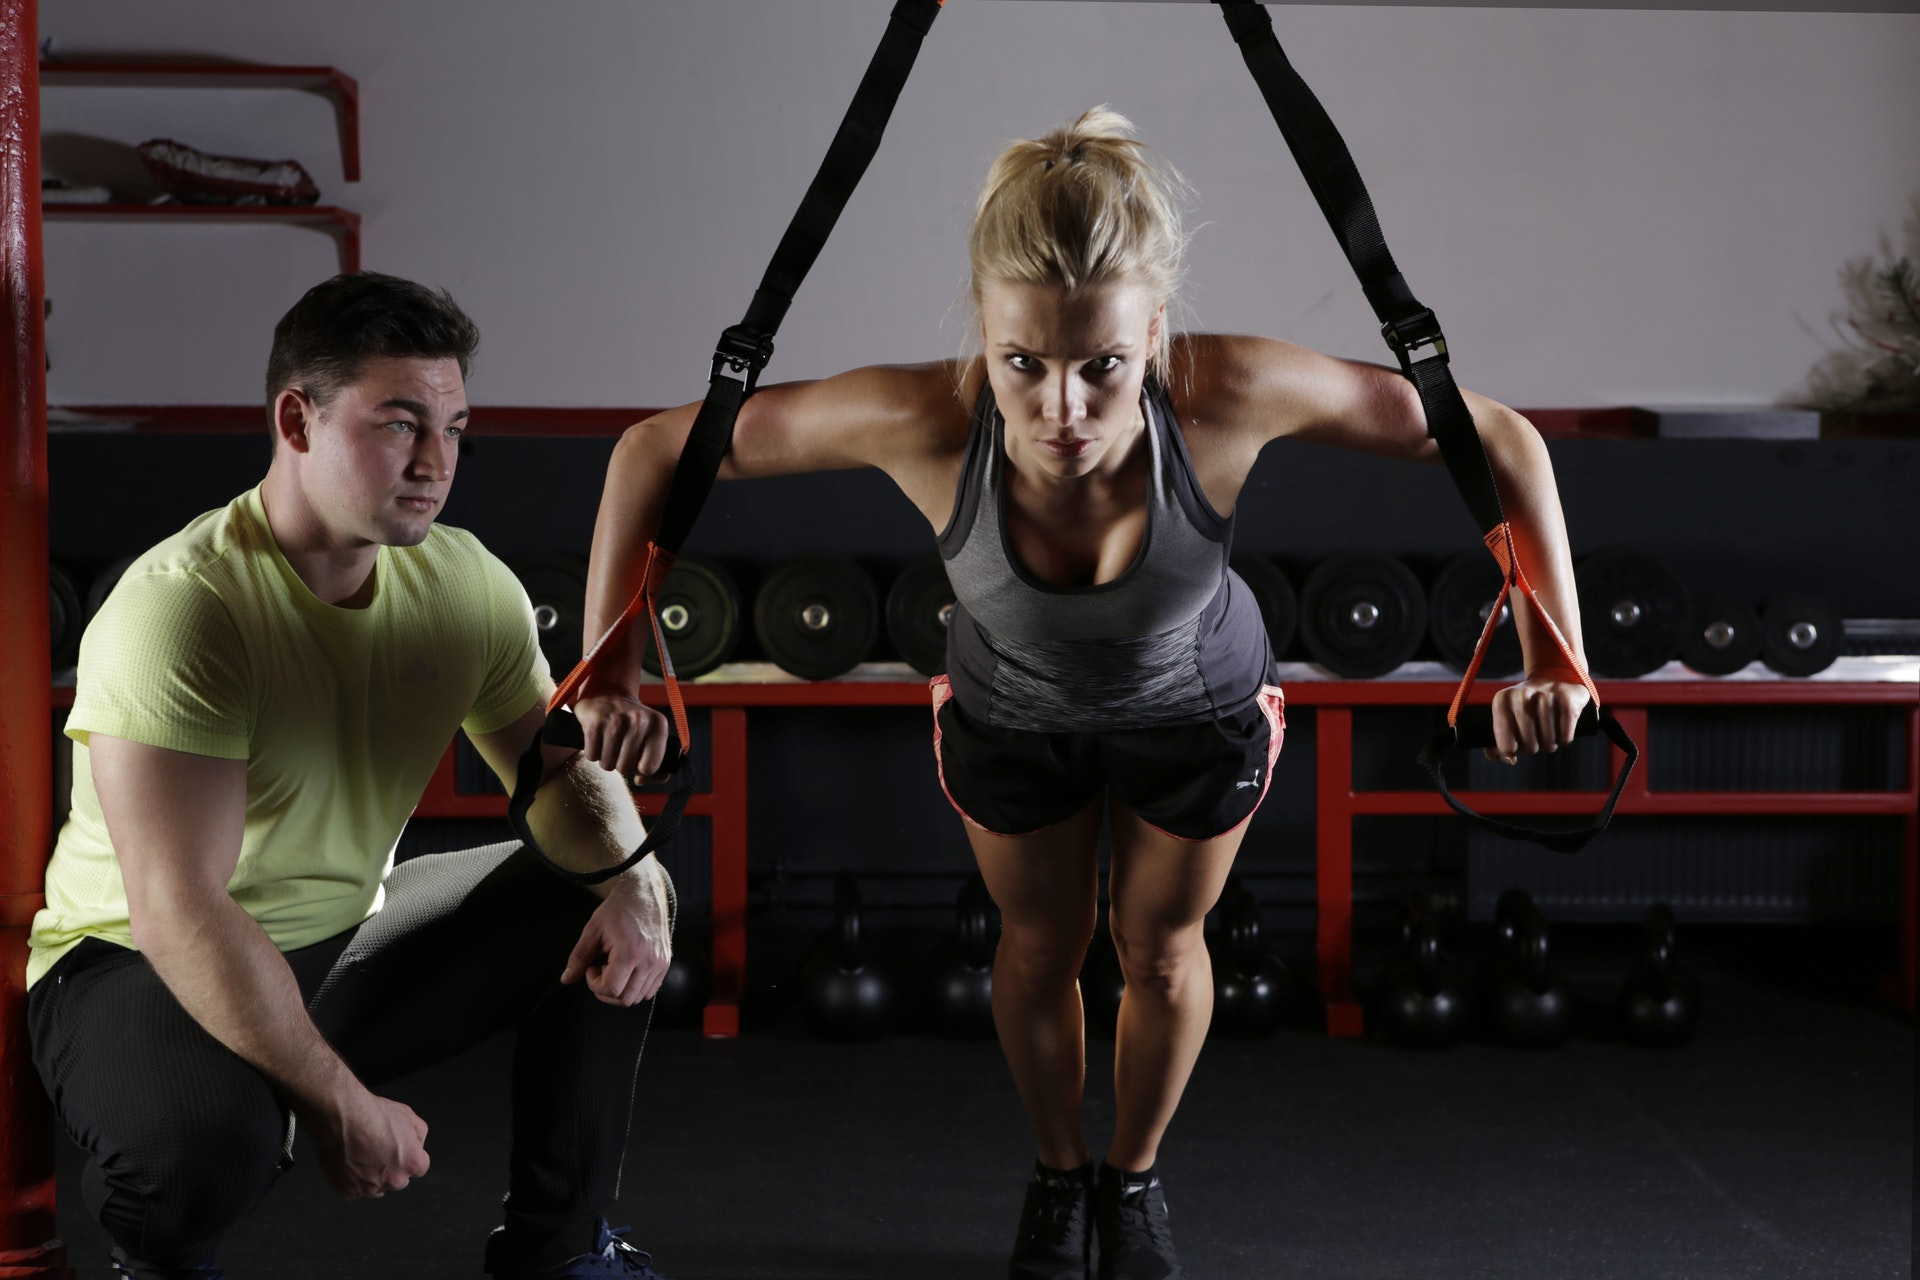
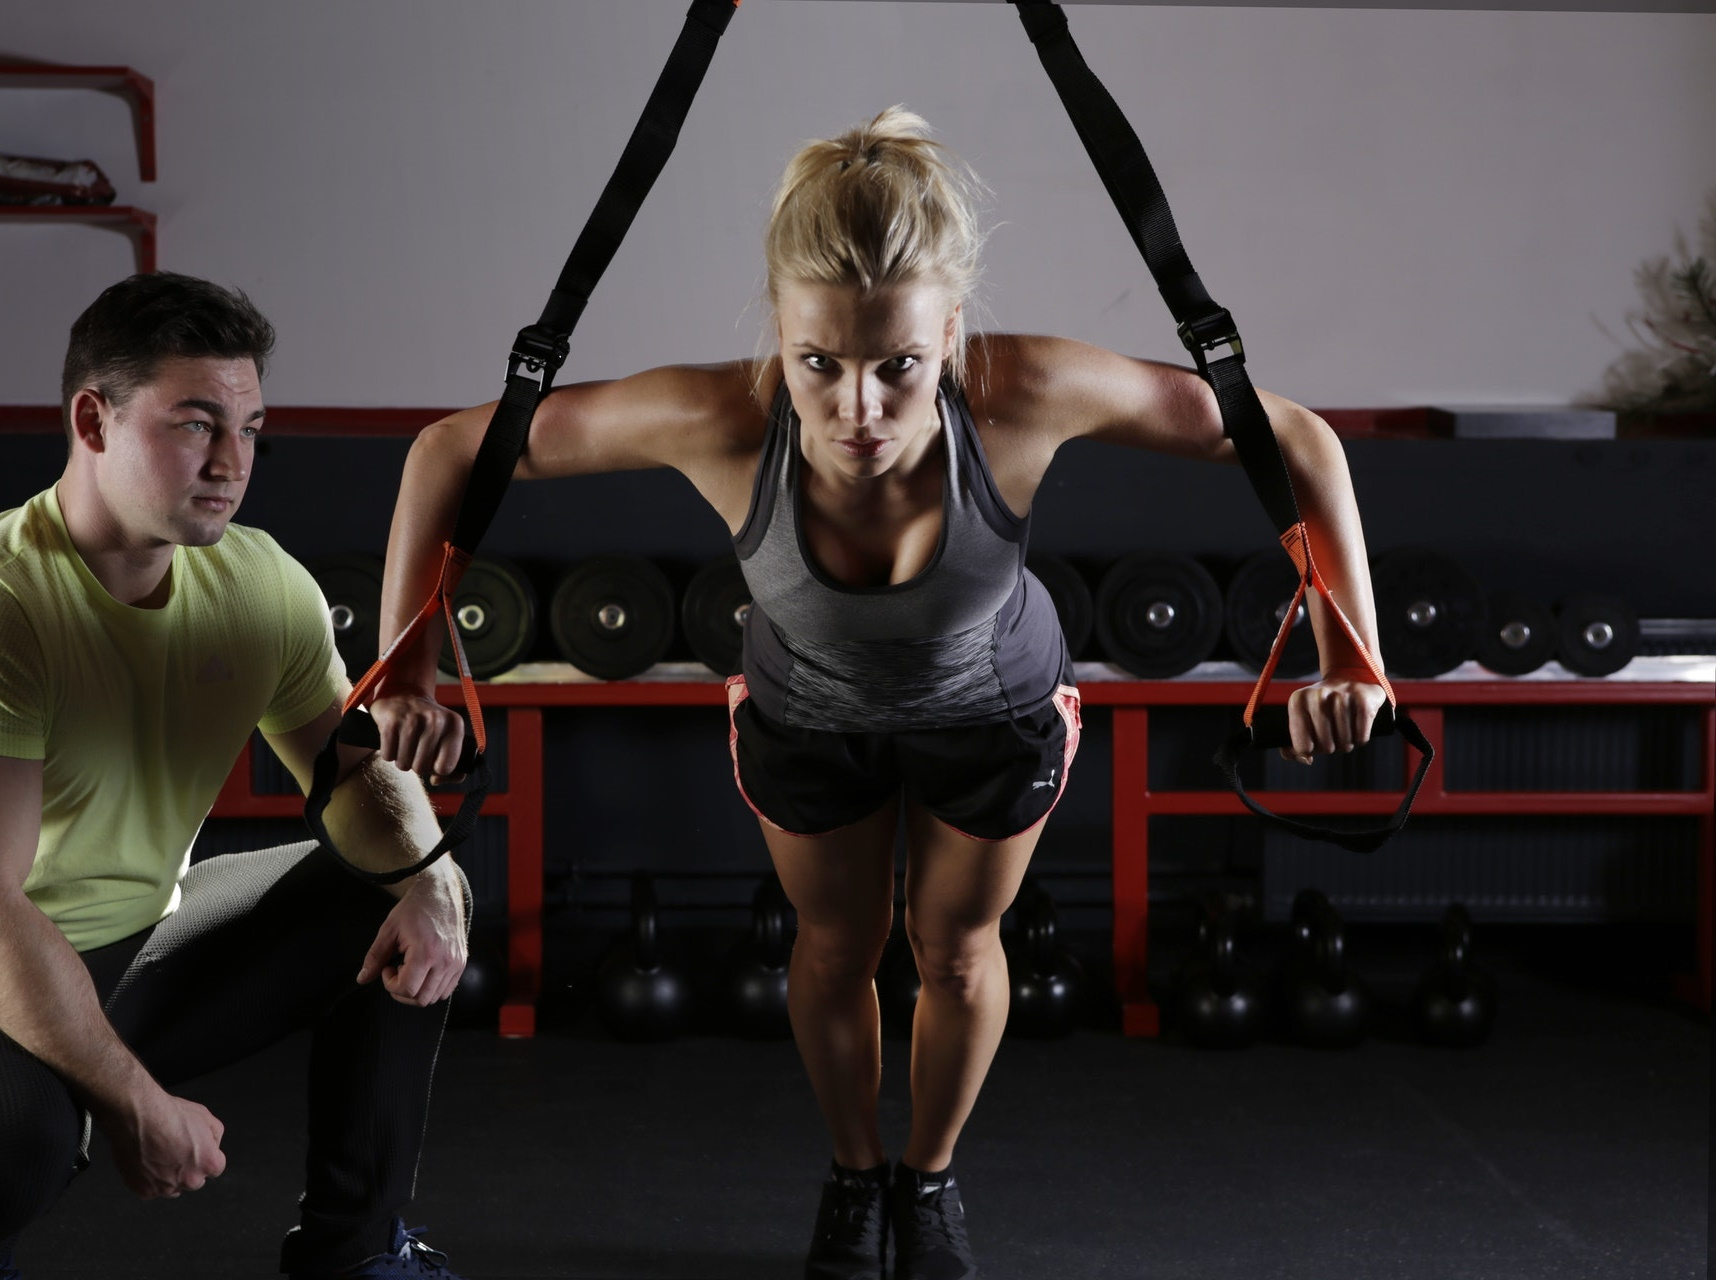
Remove testimonials, crop the hero image to center the woman, and adjust body background position on smaller breakpoints to center the woman

diff --git a/home/templates/home/index.html b/home/templates/home/index.html
@@ -56,8 +56,8 @@
                             <div class="col">
                                 <div class="jumbotron d-none d-md-block my-5">
                                     <div class="col-8 offset-2">
-                                        <h2 class="text-center text-uppercase">Join The Git Fit Community</h2>
-                                        <p class="lead text-center">Join the community for support from your peers and access to our exercise and nutritions plans designed to help you git fit.</p>
+                                        <h2 class="text-center text-uppercase"><i class="fas fa-tools"></i> Join The Git Fit Community</h2>
+                                        <p class="lead text-center">Register now and get access to our Git Fit Community once it's finished. Read about some features below.</p>
                                         <h4 class="text-center">
                                             <a href="{% url 'account_signup' %}" class="btn btn-lg btn-red rounded-0 text-uppercase"><i class="fas fa-user-plus"></i> Register</a>
                                         </h4>
@@ -65,61 +65,6 @@
                                 </div>
                             </div>
                         </div>
-                    </section>
-                    <section id="testimonials-section">
-                        <div class="row">
-                            <div class="col-8 offset-2 testimonial-btn-xs d-block d-sm-none text-center">
-                                <div class="testimonial-collapse mb-5">
-                                    <button class="btn bg-white rounded-0 w-100" type="button" data-toggle="collapse" data-target="#collapseTestimonial1" aria-expanded="false" aria-controls="collapseTestimonial1">
-                                        <img src="https://ui-avatars.com/api/?name=Brad+Harris" class=" float-left mr-1" alt="Avatar"> Testimonial from Brad Harris
-                                    </button>
-                                    <div class="collapse bg-white p-3" id="collapseTestimonial1">
-                                        <div class="row">
-                                            <div class="col">
-                                                <p ><i>Git Fit keeps it simple. Join, if you finally want to get fit!</i></p>
-                                            </div>
-                                        </div>
-                                    </div>
-                                </div>
-                            </div>
-                            <div class="col-8 offset-2 testimonial-btn-xs d-block d-sm-none text-center">
-                                <div class="testimonial-collapse mb-5">
-                                    <button class="btn bg-white rounded-0 w-100" type="button" data-toggle="collapse" data-target="#collapseTestimonial2" aria-expanded="false" aria-controls="collapseTestimonial2">
-                                        <img src="https://ui-avatars.com/api/?name=John+Smith" class=" float-left mr-1" alt="Avatar"> Testimonial from John Smith
-                                    </button>
-                                    <div class="collapse bg-white p-3" id="collapseTestimonial2">
-                                        <div class="row">
-                                            <div class="col">
-                                                <p><i>I was trying to get fit by myself, but joining Git Fit made everything easier!</i></p>
-                                            </div>
-                                        </div>
-                                    </div>
-                                </div>
-                            </div>
-                            <div class="col-8 offset-2  d-none d-sm-block">
-                                <div class="testimonial-div mb-5 border-black bg-white">
-                                    <div class="row">
-                                        <div class="col-3 col-md-2 py-3">
-                                            <img src="https://ui-avatars.com/api/?name=Brad+Harris" class="" alt="Avatar">
-                                        </div>
-                                        <div class="col-9 col-md-10 py-3">
-                                            <p ><i>Git Fit keeps it simple. Join, if you finally want to get fit!</i><span><br>- Brad Harris</span></p>
-                                        </div>
-                                    </div>
-                                </div>
-                            </div>
-                            <div class="col-8 offset-2  d-none d-sm-block">
-                                <div class="testimonial-div mb-5 border-black bg-white">
-                                    <div class="row">
-                                        <div class="col-3 col-md-2 py-3">
-                                            <img src="https://ui-avatars.com/api/?name=John+Smith" class="" alt="Avatar">
-                                        </div>
-                                        <div class="col-9 col-md-10 py-3">
-                                            <p ><i>I was trying to get fit by myself, but joining Git Fit made everything easier!</i><span><br>- John Smith</span></p>
-                                        </div>
-                                    </div>
-                                </div>
-                            </div>
                     </section>
                     <section id="features-section">
                         <div class="row">

diff --git a/static/css/base.css b/static/css/base.css
@@ -12,7 +12,6 @@ body {
     font-family: 'Open Sans', sans-serif;
     background-color: var(--netflix-black);
     background-image: url('/media/woman_doing_exercise.jpg');
-    background-position: 80%;
     background-repeat: no-repeat;
     background-size: cover;
     color: var(--netflix-white);
@@ -320,37 +319,29 @@ h1, h2, h3, h4, h5, h6 {
 
 /* Media queries */
 @media (max-width: 1200px) {
-    body {
-        background-position: 500%;
-    }
-
     .container {
         max-width: 80%;
     }
 }
 
 @media (max-width: 1080px) {
-    body {
-        background-position: 100%;
-    }
-
     .container {
         max-width: 80%;
     }
 }
 
 @media (max-width: 992px) {
-    body {
-        background-position: 60%;
-    }
-
     .fixed-top {
         position: fixed;
         top: 0;
         right: 0;
         left: 0;
         z-index: 1030;
-    } 
+    }
+
+    body {
+        background-position: 50%;
+    }
 
     .header-container {
         padding-top: 120px;
@@ -358,14 +349,13 @@ h1, h2, h3, h4, h5, h6 {
 }
 
 @media (max-width: 576px) {
-    body {
-        background-position: 58%;
-    }
-
     .header-container {
         padding-top: 120px;
     }
 
+    body {
+        background-position: 50%;
+    }
 
     .call-to-action-header {
         font-size: 1.8rem;
@@ -382,6 +372,6 @@ h1, h2, h3, h4, h5, h6 {
 
 @media (max-width: 575px) {
     body {
-        background-position: 58%;
+        background-position: 50%;
     }
 }
